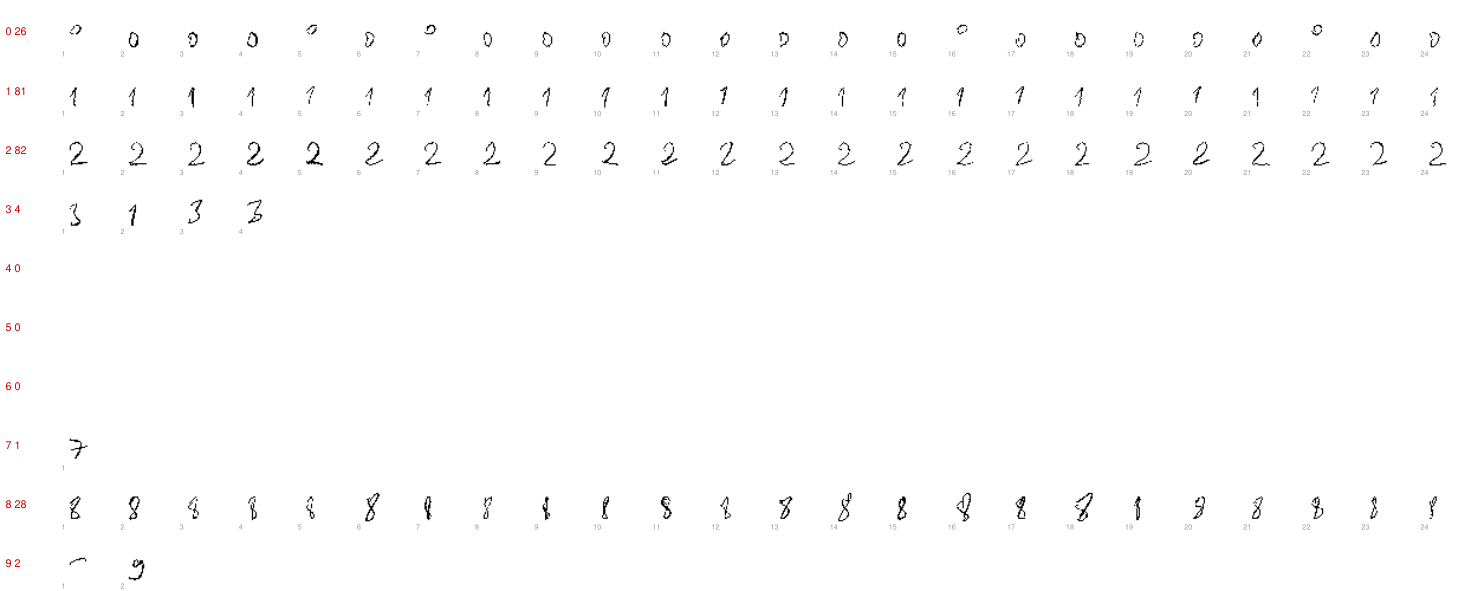
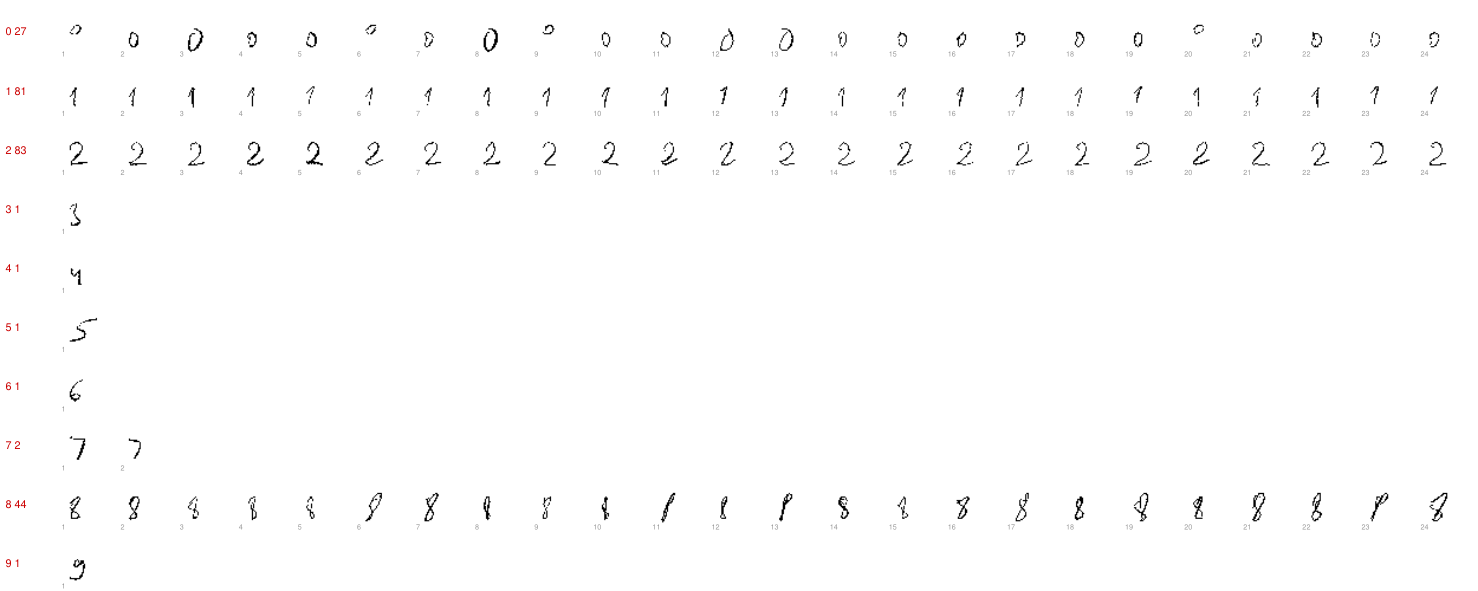
set06: digits restored from sheet seeds, sub-question labels, operator limits, Σ composed, display-math detection; symbol-filter regression fixed

diff --git a/inkclone/source_doc.py b/inkclone/source_doc.py
@@ -62,13 +62,57 @@ def parse(path):
             else:
                 groups.append({"y": sp["origin"][1], "size": sp["size"], "spans": [sp]})
         merged = []
+        body_sz = sorted(sp["size"] for sp in spans)[len(spans) // 2] if spans else 10
+        def attach_limits(prev, g):
+            sps = g["spans"]
+            if not prev or not all(sp["size"] < 0.8 * body_sz for sp in sps): return False
+            ops = [sp for sp in prev["spans"] if sp["text"].strip().split("^")[0].split("_")[0] in ("min", "max", "Σ")]
+            x0, x1 = min(sp["bbox"][0] for sp in sps), max(sp["bbox"][2] for sp in sps)
+            for op in ops:
+                if op["bbox"][2] > x0 - 25 and op["bbox"][0] < x1 + 25 and 0 < g["y"] - prev["y"] < 2.2 * body_sz:
+                    lim = "".join(sp["text"] for sp in sorted(sps, key=lambda sp: sp["bbox"][0])).replace(" ", "").replace("ℓ", "l")
+                    op["text"] = op["text"].strip() + "_{" + lim + "}"; return True
+            return False
+        def attach_upper(g, nxt):
+            """a small group sitting just ABOVE a Σ/max/min in the next group -> superscript limit"""
+            sps = g["spans"]
+            if not all(sp["size"] < 0.8 * body_sz for sp in sps): return False
+            x0, x1 = min(sp["bbox"][0] for sp in sps), max(sp["bbox"][2] for sp in sps)
+            for op in nxt["spans"]:
+                if op["text"].strip().split("_")[0] in ("Σ", "min", "max") and op["bbox"][2] > x0 - 25 and op["bbox"][0] < x1 + 25 and 0 < nxt["y"] - g["y"] < 2.2 * body_sz:
+                    lim = "".join(sp["text"] for sp in sorted(sps, key=lambda sp: sp["bbox"][0])).replace(" ", "").replace("ℓ", "l")
+                    op["text"] = op["text"].strip() + "^{" + lim + "}"; return True
+            return False
+        import os
+        if os.environ.get("INK_DEBUG"):
+            for g in groups:
+                if 540 < g["y"] < 580: print("GROUP", round(g["y"], 1), [(sp["text"], round(sp["size"], 1)) for sp in g["spans"]])
+        kept = []
+        for i, g in enumerate(groups):
+            if kept and attach_limits(kept[-1], g): continue
+            if i + 1 < len(groups) and attach_upper(g, groups[i + 1]): continue
+            # a big operator (Σ) on its own baseline belongs in the line it straddles: push it into the next group
+            for sp in g["spans"]:
+                if "CMEX" in sp["font"] and sp["text"].strip() in ("X", "P"): sp["text"] = "Σ"
+            sig = [sp for sp in g["spans"] if sp["text"].strip().startswith("Σ")]
+            empty_cmex = lambda sp: "CMEX" in sp["font"] and not any(ord(c) >= 32 and not c.isspace() for c in sp["text"])
+            small = [sp for sp in g["spans"] if sp["size"] < 0.8 * body_sz]
+            if sig and i + 1 < len(groups) and all(sp in sig or sp in small or empty_cmex(sp) for sp in g["spans"]) and 0 < groups[i + 1]["y"] - g["y"] < 1.5 * body_sz:
+                if small and "^{" not in sig[0]["text"]:
+                    sig[0]["text"] = sig[0]["text"].strip() + "^{" + "".join(sp["text"] for sp in sorted(small, key=lambda sp: sp["bbox"][0])).replace(" ", "").replace("ℓ", "l") + "}"
+                groups[i + 1]["spans"].extend(sig); continue
+            kept.append(g)
+        groups = kept
         for g in groups:
             sps = sorted(g["spans"], key=lambda sp: sp["bbox"][0])
             main = max(sps, key=lambda sp: len(sp["text"])); size = main["size"]; base = main["origin"][1]
             txt, prev_x1 = "", None
             for sp in sps:
                 t = sp["text"]
-                if "CMEX" in sp["font"] and t.strip() == "P": t = "Σ"
+                if "CMEX" in sp["font"] and t.strip() in ("P", "X"): t = "Σ"
+                if "CMEX" in sp["font"]: t = "".join(ch for ch in t if ord(ch) >= 32)  # big delimiters / cases braces: drop
+                if "CMMI" in sp["font"] and t.strip() == "" and sp["bbox"][2] - sp["bbox"][0] > 1.0: t = "l"   # ℓ has no unicode mapping in CMMI10
+                t = t.replace("ℓ", "l")
                 if "CMSY" in sp["font"] and t.strip() == "p": t = "√"
                 small = sp["size"] < 0.8 * size
                 if small and sp["origin"][1] > base + 0.12 * size: t = ("_" + t) if len(t.strip()) == 1 else ("_{" + t.strip() + "}")
@@ -91,7 +135,9 @@ def parse(path):
                 lines.append({"kind": "title", "indent": 0, "text": t}); continue
             if pno == 0 and n_headers == 0 and i < 4 and nwords <= 8 and not is_short_bold and len(t) < 60:
                 lines.append({"kind": "meta", "indent": 0, "text": t}); continue
-            if is_short_bold:
+            if re.match(r"^\(?[a-z]\)$", t):  # a bare sub-question label: attach to the next line
+                lines.append({"kind": "prose", "indent": 0, "text": t, "bold_lead": True, "sublabel": True}); continue
+            if is_short_bold and not re.match(r"^\([a-z]\)", t):
                 n_headers += 1; in_code = False
                 lines.append({"kind": "header", "indent": 0, "text": re.sub(r"^(\d+)\s+", r"\1) ", t)}); continue
             if re.match(r"^[A-Z][A-Za-z]+\(.*\)\s*$", t) and r["x"] <= body_x + 2:
@@ -101,7 +147,7 @@ def parse(path):
             in_code = False
             if re.match(r"^\d+$", t): continue  # page number
             # a standalone equation line: no lowercase word of 3+ letters, indented or centred
-            if not re.search(r"[a-z]{3,}", t) and r["x"] > body_x + 20:
+            if not re.search(r"[a-z]{3,}", re.sub(r"(?<![A-Za-z])(min|max|log|lim|argmin|argmax)(?![A-Za-z])", "", t)) and r["x"] > body_x + 20:
                 lines.append({"kind": "math", "indent": 2, "text": t}); continue
             lines.append({"kind": "prose", "indent": 0, "text": t, "bold_lead": r["bold"]})
     return merge_paragraphs(lines)
@@ -113,6 +159,12 @@ def merge_paragraphs(lines):
     out = []; seen_header = False
     for ln in lines:
         if ln["kind"] == "header": seen_header = True
+        starts_sub = ln["kind"] == "prose" and re.match(r"^\([a-z]\)", ln["text"]) is not None
+        if out and out[-1].get("sublabel"):  # "(b)" alone on a line + the following text -> one paragraph,
+            if starts_sub:                     # unless that text is itself sub-labelled: then "(b)" heads a group
+                out[-1] = dict(out[-1], sublabel=False); out.append(dict(ln)); continue
+            out[-1] = dict(out[-1], text=(out[-1]["text"] + " " + ln["text"]).strip(), sublabel=False, kind="prose"); continue
+        if starts_sub: out.append(dict(ln)); continue
         if not seen_header and ln["kind"] == "prose" and len(ln["text"].split()) <= 8: out.append(dict(ln, kind="meta")); continue
         if ln["kind"] == "prose" and out and out[-1]["kind"] == "prose" and not ln.get("bold_lead"):
             out[-1]["text"] = (out[-1]["text"] + " " + ln["text"]).strip()

diff --git a/inkclone/symbols_merge.py b/inkclone/symbols_merge.py
@@ -1,13 +1,13 @@
 """Combine sheet-labeled symbols with harvested ones into the final symbol bank.
 Harvested lists are sorted best-first; per-class caps keep only the trustworthy head."""
 import pickle
-KEEP = {"(": 60, ")": 40, "[": 25, "]": 60, "{": 1, ",": 60, "-": 60, "<": 0, "1": 80, "2": 80, "7": 10, "8": 60, "=": 80, "≤": 40, "≥": 3, "+": 0, "/": 0, "5": 0, "3": 25, "6": 0, "9": 25, "4": 0, "0": 25, "×": 0}
+KEEP = {"(": 60, ")": 40, ".": 40, "[": 25, "]": 60, "{": 1, ",": 60, "-": 60, "<": 0, "1": 80, "2": 80, "7": 10, "8": 60, "=": 80, "≤": 40, "≥": 3, "+": 0, "/": 0, "5": 0, "3": 0, "6": 0, "9": 0, "4": 0, "0": 25, "7": 0, "×": 0}
 if __name__ == "__main__":
     sheet = pickle.load(open("data/derived/symbols.pkl", "rb")); H = pickle.load(open("data/derived/symbols_harvested.pkl", "rb"))
     out = {}
     for c in set(sheet) | set(H):
         h = H.get(c, [])[:KEEP.get(c, 0)]
-        sh = [u for u in sheet.get(c, []) if u.get("single")] or sheet.get(c, [])
+        sh = sheet.get(c, []) if c.isdigit() else ([u for u in sheet.get(c, []) if u.get("single")] or sheet.get(c, []))
         out[c] = (h + sh) if len(h) >= 5 else (sh + h)   # harvested first when there are enough of them
     # a zero is a closed loop: drop open U/V shapes that the harvest let through
     import numpy as np
@@ -21,15 +21,35 @@ if __name__ == "__main__":
         for c in list(out):
             out[c] = [u for u in out[c] if tuple(u["src"]) + (None,) not in block]
             if not out[c]: del out[c]
+    # commas and periods are small; a tall "comma" is a mis-harvested 3 or 9
+    for c in ",.":
+        if c in out: out[c] = [u for u in out[c] if u["height"] <= 1.25] or out[c]
     # parentheses and brackets are tall and narrow; a wide '(' reads as a C
     for c in "()[]":
         if c in out:
             out[c] = [u for u in out[c] if u["width"] / max(u["height"], 1e-6) <= 0.42] or out[c]
-    for bad in ("4", "5", "6"):  # sheet instances for these are mislabeled or too few; better a gap than a wrong digit
-        out.pop(bad, None)
+    # digits: only the hand-picked sheet seeds (data/curation/digit_seeds.json) plus harvested instances
+    seeds = {c: {tuple(k) for k in v} for c, v in json.load(open("data/curation/digit_seeds.json")).items()}
+    for c in "0123456789":
+        if c in out:
+            out[c] = [u for u in out[c] if u.get("harvested") or tuple(u["src"]) in seeds.get(c, set())]
+            for u in out[c]:  # digits are one stroke (4 and 5 up to two); anything extra is a stray fragment
+                keep_n = 2 if c in "45" else 1
+                if len(u["pieces"]) > keep_n:
+                    u["pieces"] = sorted(u["pieces"], key=len, reverse=True)[:keep_n]
+                    allq = np.vstack([p[:, :2] for p in u["pieces"]]); x0 = allq[:, 0].min()
+                    for p in u["pieces"]: p[:, 0] -= x0
+                    u["width"] = float(allq[:, 0].max() - x0); u["height"] = float(np.ptp(allq[:, 1]))
+            out[c] = [u for u in out[c] if u["height"] >= 1.1 or tuple(u["src"]) in seeds.get(c, set())]  # hand-picked seeds are trusted
+            if not out[c]: del out[c]
     from inkclone.augment import augment_bank
     import random
     out.pop(")", None)  # always mirrored from the writer's clean '(' at render time
+    # Σ: the sheet's only instance is a flat cut; build it as a stroke with the writer's pen instead
+    from inkclone.augment import compose_sigma
+    if not any(u["height"] > 1.0 for u in out.get("Σ", [])):
+        pen = float(np.median([u.get("pen") or np.median(np.concatenate([p[:, 2] for p in u["pieces"]])) for u in out.get("=", [])[:20]]) or 0.65)
+        out["Σ"] = [compose_sigma(pen, random.Random(21 + k)) for k in range(12)]
     out = augment_bank(out, random.Random(11), per_instance=10, target_min=30, cap=150, strength=0.6, bend=False)
     pickle.dump(out, open("data/derived/symbols_final.pkl", "wb"))
     print("final symbol bank:", {c: len(v) for c, v in sorted(out.items()) if v})

diff --git a/inkclone/augment.py b/inkclone/augment.py
@@ -159,3 +159,18 @@ def compose_D(l_pool, paren_pool, rng):
     allq = np.vstack([p[:, :2] for p in pieces])
     return {"text": "D", "pieces": pieces, "width": float(allq[:, 0].max()), "height": float(np.ptp(allq[:, 1])), "src": ("composed", "D"),
             "synthetic": True, "whole": True, "score": 0.1, "slant": -4.0, "pen": float(np.median(stem[:, 2])), "joined_prev": False, "joined_next": False}
+
+
+def compose_sigma(pen, rng):
+    """A summation sign as one stroke: top bar, down-left to the middle, down-right, bottom bar.
+    Capital height (about 2 x-heights), drawn with the writer's pen width."""
+    top, bot = rng.uniform(-2.2, -1.9), rng.uniform(0.05, 0.2); w = rng.uniform(1.2, 1.5); mid = (top + bot) / 2 + rng.uniform(-0.1, 0.1)
+    corners = np.array([[w, top + rng.uniform(-0.05, 0.1)], [0.0, top], [w * rng.uniform(0.5, 0.65), mid], [0.0, bot], [w, bot + rng.uniform(-0.1, 0.05)]])
+    pts = []
+    for a, b in zip(corners, corners[1:]):
+        for t in np.linspace(0, 1, 10)[:-1]:
+            q = a + (b - a) * t; q = q + np.array([rng.gauss(0, 0.02), rng.gauss(0, 0.02)]); pts.append(q)
+    pts.append(corners[-1]); P = np.array(pts); P[:, 0] -= P[:, 0].min()
+    piece = np.column_stack([P, np.full(len(P), pen)])
+    return {"text": "Σ", "pieces": [piece], "width": float(P[:, 0].max()), "height": float(np.ptp(P[:, 1])), "src": ("composed", "Σ"),
+            "synthetic": True, "single": True, "slant": -4.0, "pen": pen}

diff --git a/inkclone/harvest_unlabeled.py b/inkclone/harvest_unlabeled.py
@@ -34,8 +34,11 @@ def page_scale(strokes):
 def seeds_from_banks(sym, letters, n_strokes):
     """-> dict class -> list of (feature, pieces_norm) for seeds with exactly n_strokes main strokes."""
     S = collections.defaultdict(list)
+    import json, os
+    dseeds = {c: {tuple(k) for k in v} for c, v in json.load(open("data/curation/digit_seeds.json")).items()} if os.path.exists("data/curation/digit_seeds.json") else {}
     for c, insts in sym.items():
         for u in insts:
+            if c.isdigit() and dseeds and tuple(u["src"]) not in dseeds.get(c, set()): continue
             if len(u["pieces"]) == n_strokes:  # cut-out brackets/commas are acceptable seeds; the grid showed them mostly clean
                 xy = [p[:, :2] for p in u["pieces"]]; S[c].append((feat(xy, 1.3), u))  # bank units: xh=1 -> size_ref 1.3 (letter height)
     for c, insts in letters.items():

diff --git a/inkclone/page.py b/inkclone/page.py
@@ -134,9 +134,9 @@ class Page:
             if c in "_^": mode = c; i += 1; group = tok[i:i+1] == "{"; i += 1 if group else 0; continue
             if c == "}" and group: mode, group = None, False; i += 1; continue
             scale, dy = (0.65, 0.55) if mode == "_" else (0.65, -1.0) if mode == "^" else (1.0, 0.0)
-            if c.isalpha():
+            if c.isalpha() and c.isascii():
                 j = i
-                while j < len(tok) and tok[j].isalpha(): j += 1
+                while j < len(tok) and tok[j].isalpha() and tok[j].isascii(): j += 1
                 run = tok[i:j]; st, w, _ = self.s.word(run, used); i = j
             else:
                 i += 1

diff --git a/inkclone/symbols.py b/inkclone/symbols.py
@@ -115,7 +115,7 @@ def harvest(page, source_lines, templates, prior):
             occ = {}
             for ch in seg:
                 c = ch["char"]
-                if c.isalpha(): continue
+                if c.isalpha() and c.isascii(): continue   # Σ and other non-ASCII letters are symbols
                 occ[c] = occ.get(c, 0) + 1
                 pieces = [tls[i][i0:i1].copy() for i, i0, i1 in ch["pieces"]]
                 px = min(p_[:, 0].min() for p_ in pieces)

diff --git a/reports/LOG.md b/reports/LOG.md
@@ -144,3 +144,8 @@ Writer reported shaky lines, random dots, scalloped strokes ("es" of Inequalitie
 2. Vector export built filled offset outlines, which self-intersect when samples are denser than the pen width (spikes, holes). Fixed: stroked polylines, round caps/joins, one width per stroke.
 3. PyMuPDF `finish()` defaults to closePath=True: every stroke got a chord from end back to start (short strokes: "random dots"; long strokes: filled blobs). Fixed with closePath=False. This also made the day's "after" renders misleading, together with a lost `__main__` block that left `cli render` silently writing nothing for ~4 hours.
 Verified on the same "es" at 900 dpi and on the section 1 header next to the real HW5 header.
+
+## set06 (dynamic programming) render, 2026-10-10
+Writer: "pages of math and no 4/5/6?" Correct. The sheet had every digit; a day-one rule (`pop 4/5/6`) plus a "single-token only" filter hid them and I reported the gap instead of looking. Fixed from the data: hand-picked digit seeds (`data/curation/digit_seeds.json`), stray-fragment trim, comma height filter (tall "commas" were 3s).
+Parser: bare "(b)" labels no longer become headers; a "(b)" heading a group of "(a)..(e)" stays on its own line; operator limits (min/max/Σ, above and below) attach as sub/superscripts; a Σ straddling a line is folded into it; CMEX big delimiters dropped; display equations detected even when they contain min/max; Σ composed as a stroke (the sheet's Σ cut was flat).
+Regression caught: a height filter meant for digits had landed in the all-symbols loop and wiped = , . - (page rendered "=" as 5). Removed.
